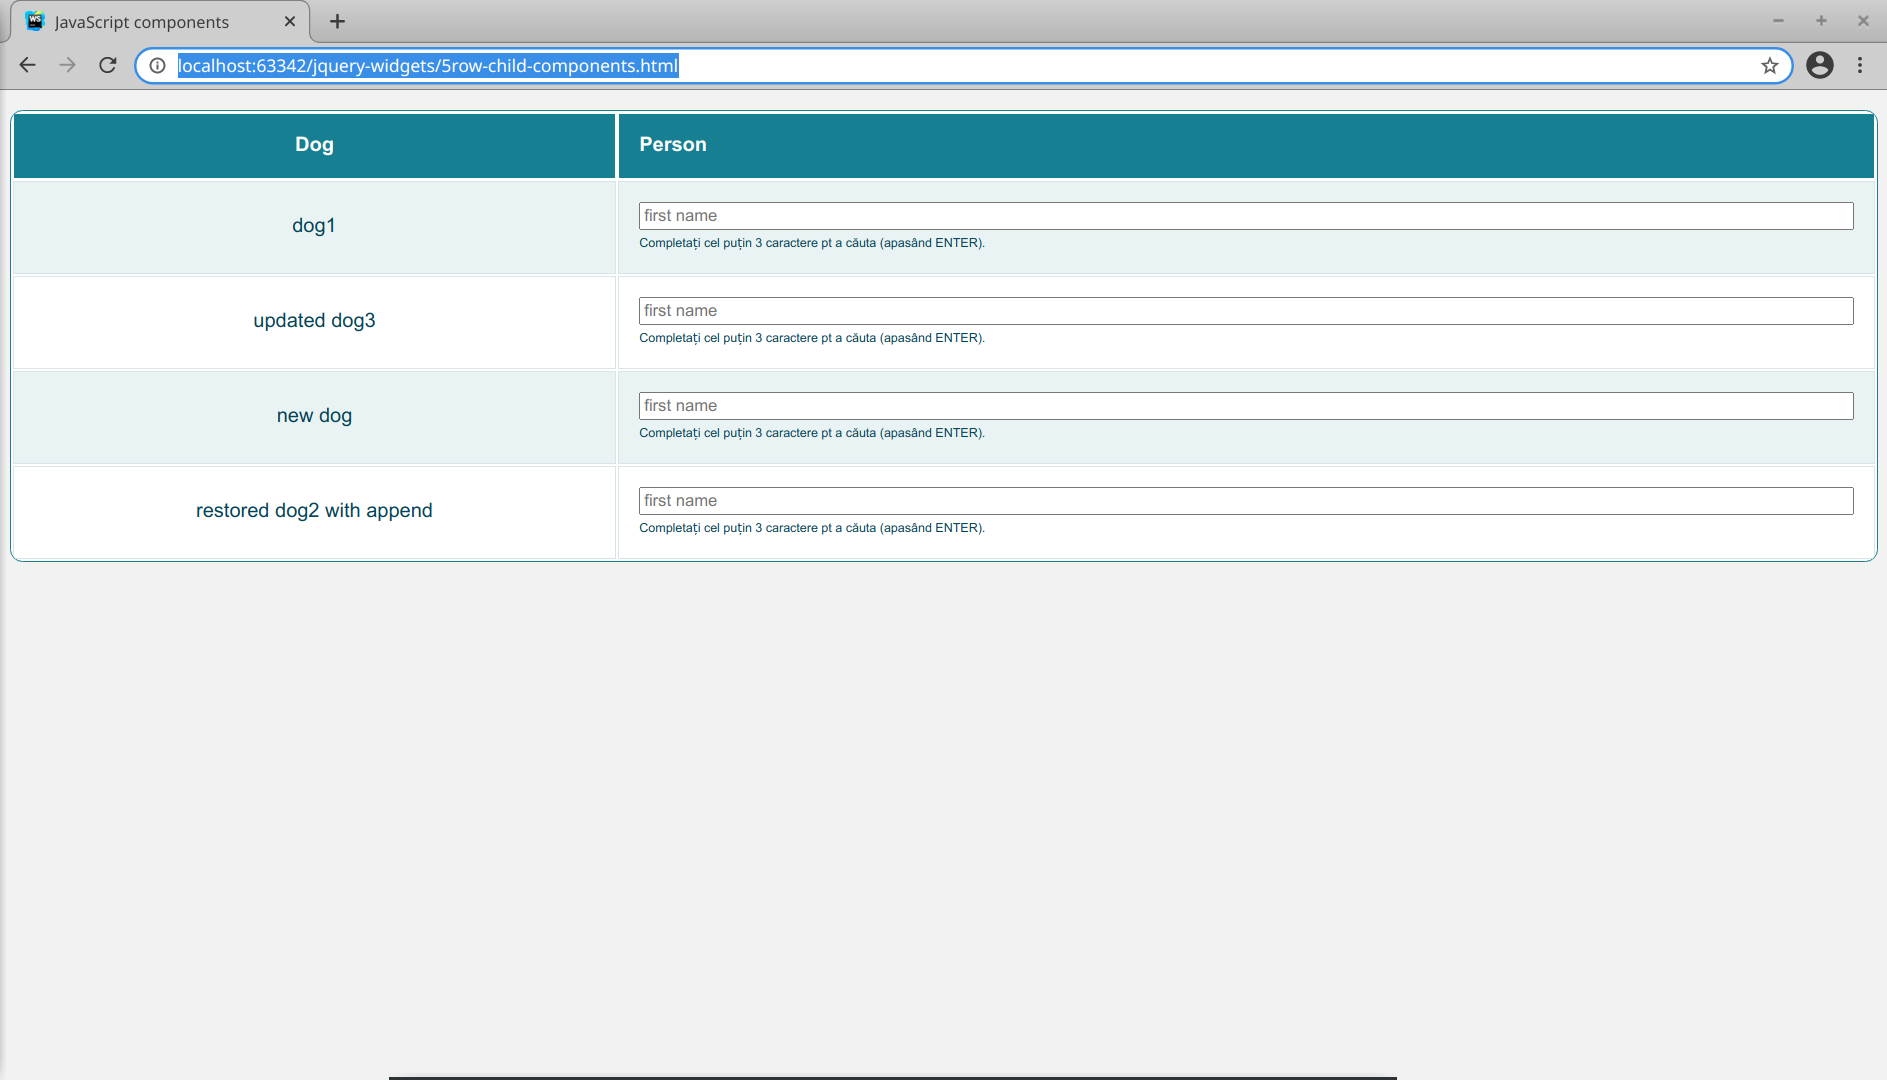
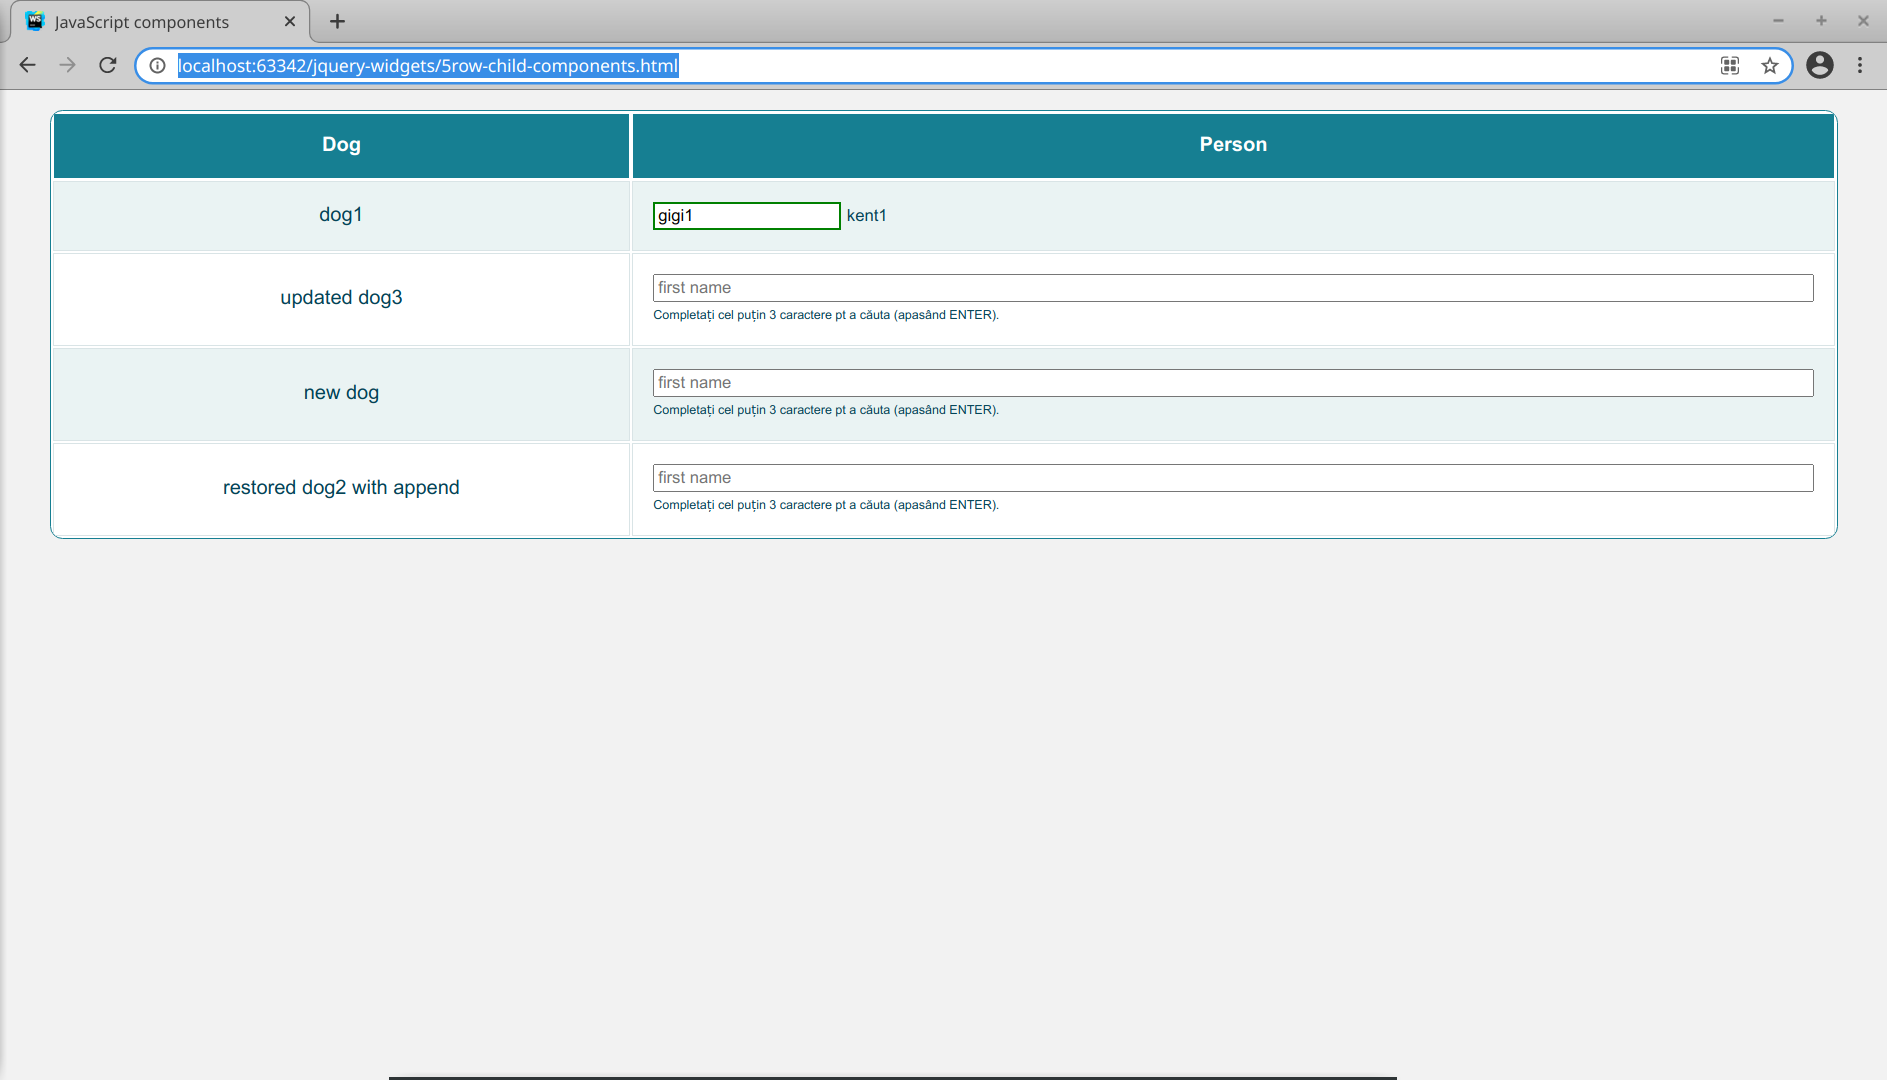
5row-child-components.png, 6selectable-list.html, 7editable-list.html: js imports update (e.g. js/mock/db-mock.js)

diff --git a/6selectable-list.html b/6selectable-list.html
@@ -106,6 +106,18 @@
 <script src="js/ro/go/adrhc/jquery-widgets/components/helpers/entity-extractor/default-entity-extractor.js"></script>
 <script src="js/ro/go/adrhc/jquery-widgets/components/abstract-component.js"></script>
 <script src="js/ro/go/adrhc/jquery-widgets/components/abstract-table-based-component.js"></script>
+<!-- dynamic-select-one -->
+<script src="js/ro/go/adrhc/jquery-widgets/components/dynamic-select-one/repository/dyna-sel-one-repository.js"></script>
+<script src="js/ro/go/adrhc/jquery-widgets/components/dynamic-select-one/repository/default-dyna-sel-one-repository.js"></script>
+<script src="js/ro/go/adrhc/jquery-widgets/components/dynamic-select-one/repository/in-memory-dyna-sel-one-repository.js"></script>
+<script src="js/ro/go/adrhc/jquery-widgets/components/dynamic-select-one/model/dyna-sel-one-item.js"></script>
+<script src="js/ro/go/adrhc/jquery-widgets/components/dynamic-select-one/model/dyna-sel-one-option.js"></script>
+<script src="js/ro/go/adrhc/jquery-widgets/components/dynamic-select-one/model/dyna-sel-one-state.js"></script>
+<script src="js/ro/go/adrhc/jquery-widgets/components/dynamic-select-one/model/DynaSelOneConfig.js"></script>
+<script src="js/ro/go/adrhc/jquery-widgets/components/dynamic-select-one/view/dynamic-select-one-view.js"></script>
+<script src="js/ro/go/adrhc/jquery-widgets/components/dynamic-select-one/dyna-sel-one-childish-behaviour.js"></script>
+<script src="js/ro/go/adrhc/jquery-widgets/components/dynamic-select-one/dynamic-select-one.js"></script>
+<script src="js/ro/go/adrhc/jquery-widgets/components/dynamic-select-one/factories/dynamic-select-one-factory.js"></script>
 <!-- components/simple-list -->
 <script src="js/ro/go/adrhc/jquery-widgets/components/simple-list/view/simple-list-view.js"></script>
 <script src="js/ro/go/adrhc/jquery-widgets/components/simple-list/simple-list.js"></script>
@@ -122,7 +134,10 @@
 <script src="js/ro/go/adrhc/jquery-widgets/components/selectable-list/selectable-list-entity-extractor.js"></script>
 <script src="js/ro/go/adrhc/jquery-widgets/components/selectable-list/selectable-list.js"></script>
 <script src="js/ro/go/adrhc/jquery-widgets/components/selectable-list/selectable-list-factory.js"></script>
-
+<!-- app -->
+<script src="js/model/person.js"></script>
+<script src="js/repositories/in-memory/in-memory-persons-repository.js"></script>
+<script src="js/mock/db-mock.js"></script>
 <!-- index -->
 <script src="js/6selectable-list.js"></script>
 </body>

diff --git a/7editable-list.html b/7editable-list.html
@@ -138,6 +138,18 @@
 <script src="js/ro/go/adrhc/jquery-widgets/components/helpers/entity-extractor/default-entity-extractor.js"></script>
 <script src="js/ro/go/adrhc/jquery-widgets/components/abstract-component.js"></script>
 <script src="js/ro/go/adrhc/jquery-widgets/components/abstract-table-based-component.js"></script>
+<!-- dynamic-select-one -->
+<script src="js/ro/go/adrhc/jquery-widgets/components/dynamic-select-one/repository/dyna-sel-one-repository.js"></script>
+<script src="js/ro/go/adrhc/jquery-widgets/components/dynamic-select-one/repository/default-dyna-sel-one-repository.js"></script>
+<script src="js/ro/go/adrhc/jquery-widgets/components/dynamic-select-one/repository/in-memory-dyna-sel-one-repository.js"></script>
+<script src="js/ro/go/adrhc/jquery-widgets/components/dynamic-select-one/model/dyna-sel-one-item.js"></script>
+<script src="js/ro/go/adrhc/jquery-widgets/components/dynamic-select-one/model/dyna-sel-one-option.js"></script>
+<script src="js/ro/go/adrhc/jquery-widgets/components/dynamic-select-one/model/dyna-sel-one-state.js"></script>
+<script src="js/ro/go/adrhc/jquery-widgets/components/dynamic-select-one/model/DynaSelOneConfig.js"></script>
+<script src="js/ro/go/adrhc/jquery-widgets/components/dynamic-select-one/view/dynamic-select-one-view.js"></script>
+<script src="js/ro/go/adrhc/jquery-widgets/components/dynamic-select-one/dyna-sel-one-childish-behaviour.js"></script>
+<script src="js/ro/go/adrhc/jquery-widgets/components/dynamic-select-one/dynamic-select-one.js"></script>
+<script src="js/ro/go/adrhc/jquery-widgets/components/dynamic-select-one/factories/dynamic-select-one-factory.js"></script>
 <!-- components/simple-list -->
 <script src="js/ro/go/adrhc/jquery-widgets/components/simple-list/view/simple-list-view.js"></script>
 <script src="js/ro/go/adrhc/jquery-widgets/components/simple-list/simple-list.js"></script>
@@ -158,7 +170,10 @@
 <script src="js/ro/go/adrhc/jquery-widgets/components/editable-list/editable-list-state.js"></script>
 <script src="js/ro/go/adrhc/jquery-widgets/components/editable-list/editable-list.js"></script>
 <script src="js/ro/go/adrhc/jquery-widgets/components/editable-list/editable-list-factory.js"></script>
-
+<!-- app -->
+<script src="js/model/person.js"></script>
+<script src="js/repositories/in-memory/in-memory-persons-repository.js"></script>
+<script src="js/mock/db-mock.js"></script>
 <!-- index -->
 <script src="js/7editable-list.js"></script>
 </body>
